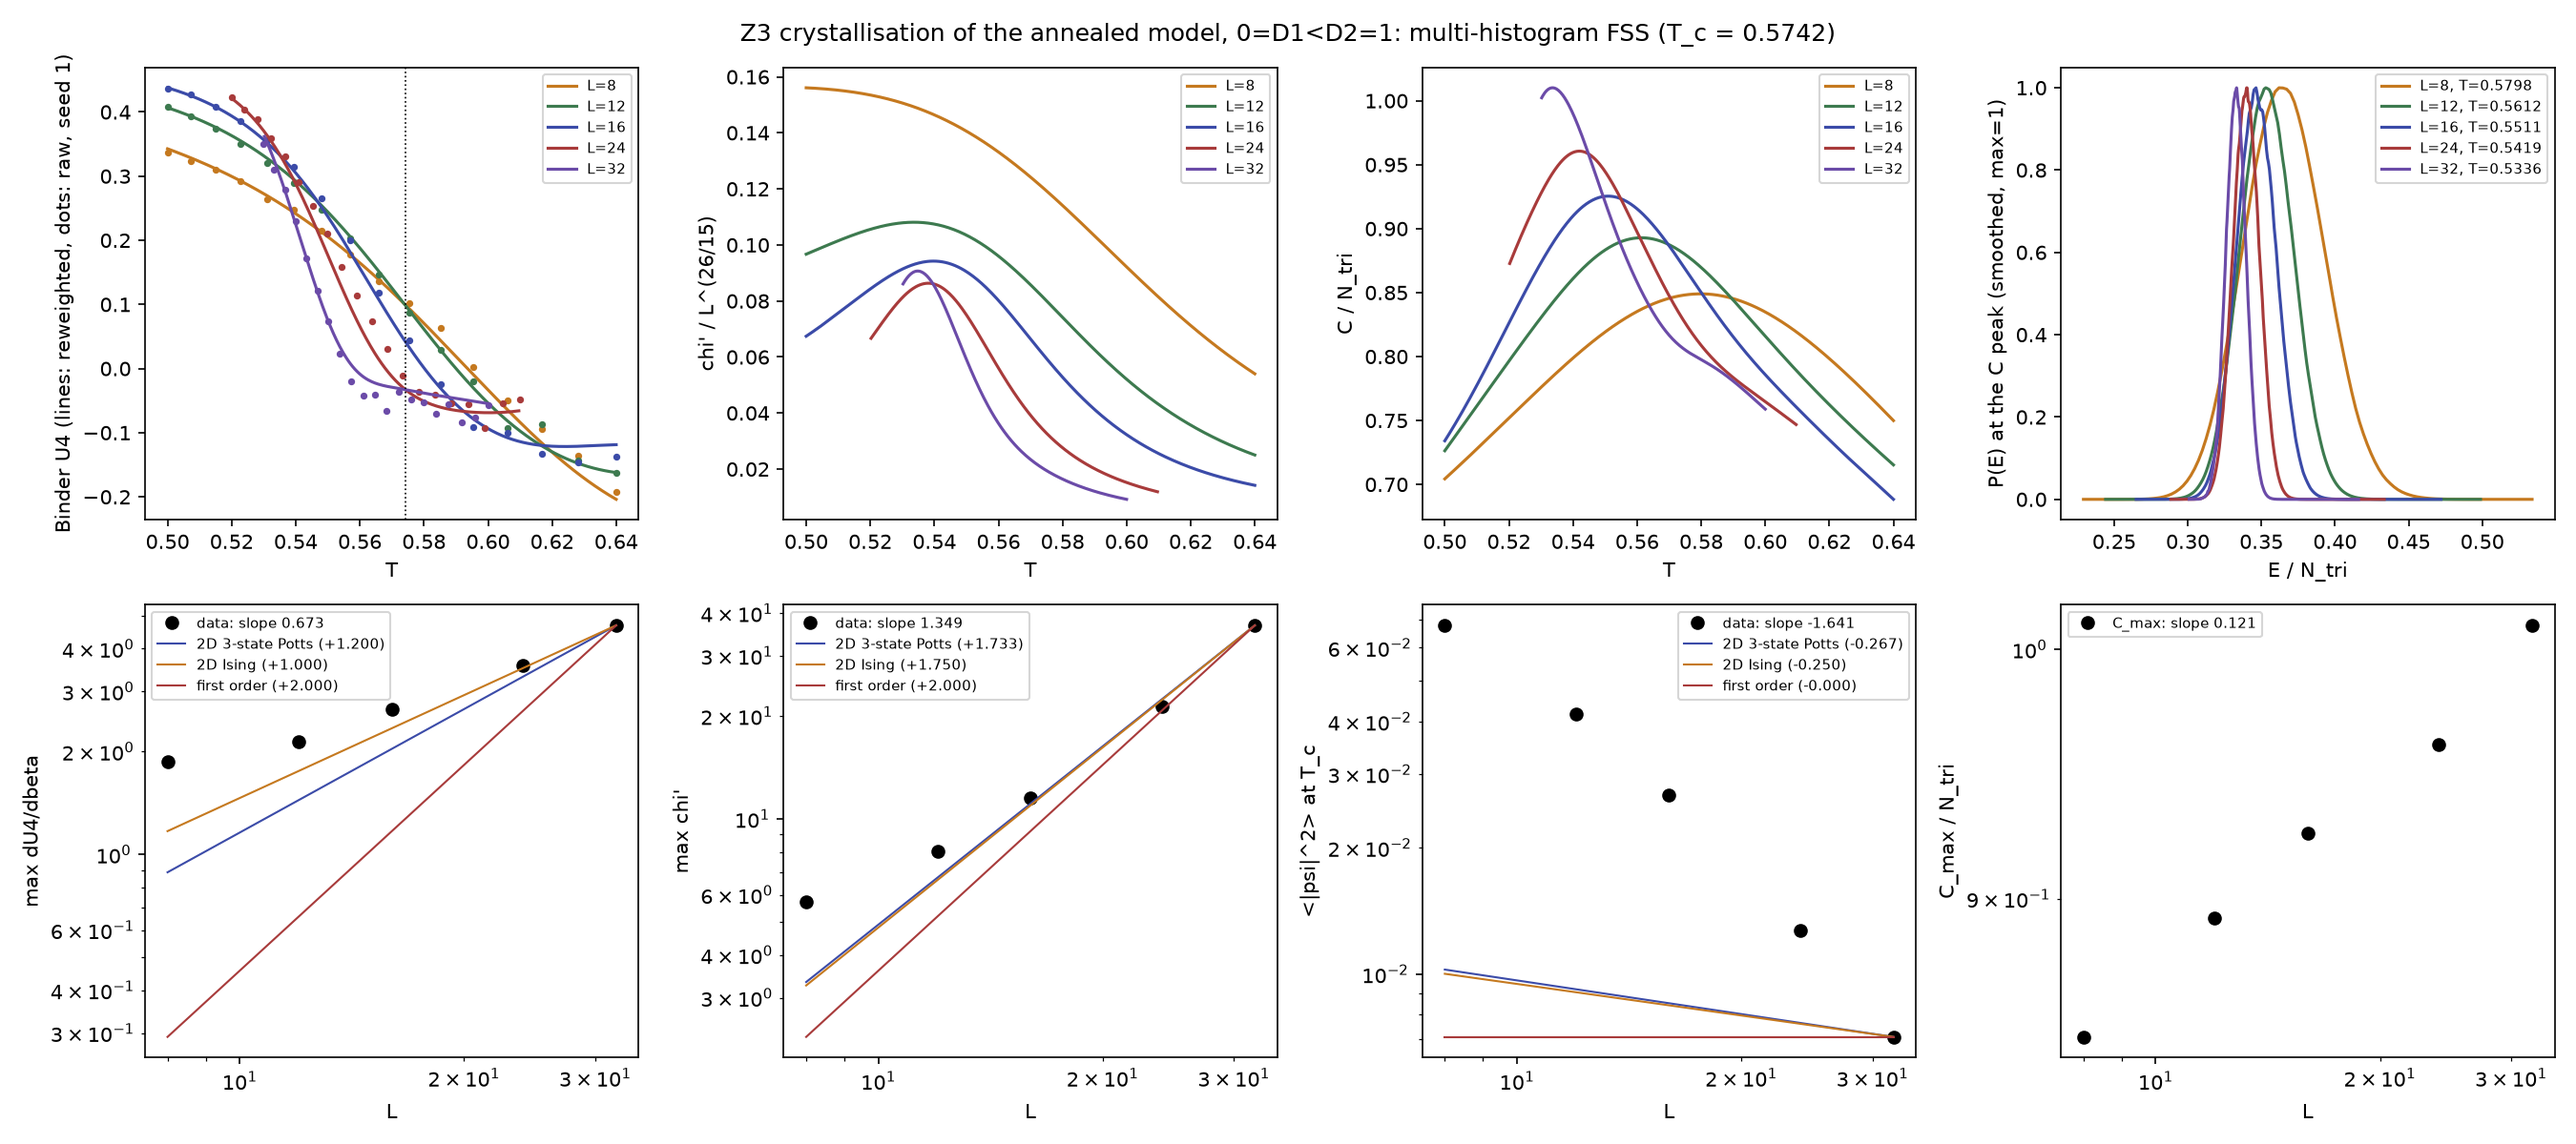
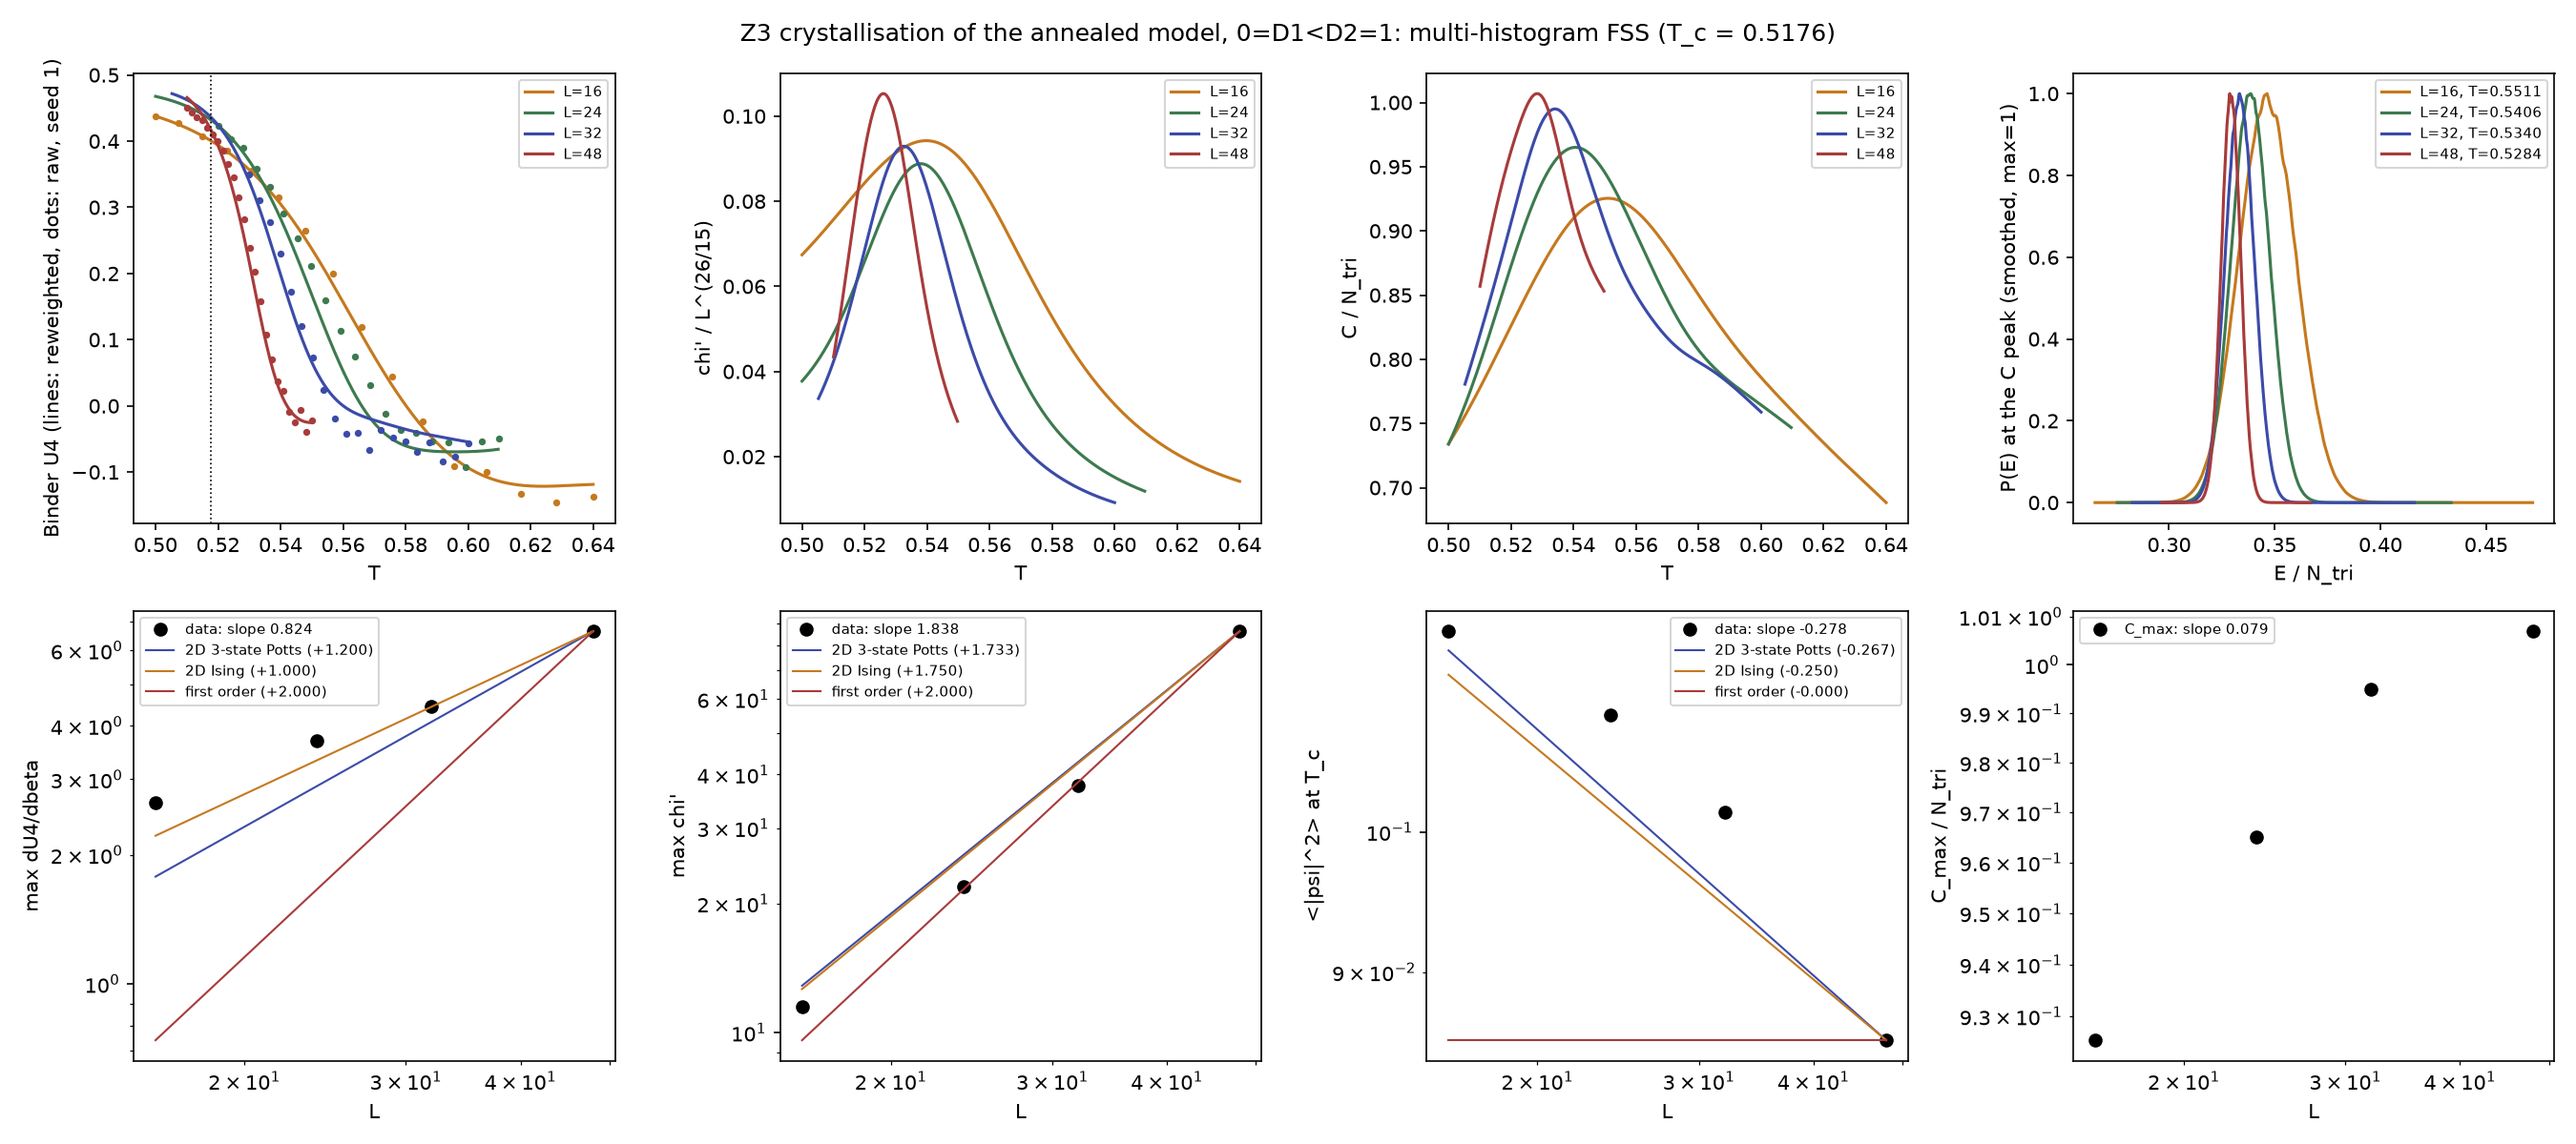
FSS D2=1 to L=48: T_c=0.518, exponents at T_c Potts-like, C_max nearly saturating; psi-histogram figure; ARTIFACT.md v7.3
Claude-Session: https://claude.ai/code/session_01RFJ2yezimFHmJH4nSdTCzd

diff --git a/annealed_fss_psi_hist.py b/annealed_fss_psi_hist.py
@@ -1,0 +1,38 @@
+"""Order-parameter distribution at the pseudo-critical temperature (C peak)
+for the largest sizes: areal density P(|psi|)/|psi| in the complex psi
+plane. A single ring = continuous-transition-like; a central (disordered)
+plateau coexisting with an ordered ring = incipient phase coexistence."""
+import glob
+
+import matplotlib
+matplotlib.use("Agg")
+import matplotlib.pyplot as plt
+import numpy as np
+
+TPK = {24: 0.5406, 32: 0.5340, 48: 0.5284}          # C-peak temperatures (annealed_fss_analysis.py)
+fig, ax = plt.subplots(1, 2, figsize=(11, 4.2))
+for (L, t), c in zip(TPK.items(), ["#a83b3b", "#6b4ba8", "#201d18"]):
+    xs, pts = [], []
+    for f in glob.glob(f"results/fss/fss_L{L}_d21_s*.npz"):
+        d = np.load(f)
+        k = np.argmin(abs(1 / d["betas"] - t))
+        if abs(1 / d["betas"][k] - t) < 0.003:
+            xs.append(np.hypot(d["re"][:, k], d["im"][:, k]))
+            pts.append((d["re"][:, k], d["im"][:, k]))
+    x = np.concatenate(xs)
+    h, e = np.histogram(x, bins=25, range=(0, 0.7), density=True)
+    r = 0.5 * (e[1:] + e[:-1])
+    ax[0].plot(r, h / r / (h / r)[:6].max(), "o-", ms=3, color=c, label=f"L={L}, T={t}")
+    if L == 48:
+        re, im = np.concatenate([p[0] for p in pts]), np.concatenate([p[1] for p in pts])
+        ax[1].hist2d(re, im, bins=60, range=[[-0.45, 0.45], [-0.45, 0.45]], cmap="Greys")
+        ax[1].set_aspect("equal")
+        ax[1].set_title(f"L=48, T={t}: psi in the complex plane", fontsize=10)
+ax[0].set_xlabel("|psi|")
+ax[0].set_ylabel("areal density P(|psi|)/|psi| (normalised)")
+ax[0].legend(fontsize=8)
+ax[1].set_xlabel("Re psi")
+ax[1].set_ylabel("Im psi")
+fig.tight_layout()
+fig.savefig("annealed_fss_psi_hist.png", dpi=150)
+print("saved annealed_fss_psi_hist.png")

diff --git a/annealed_fss_analysis.py b/annealed_fss_analysis.py
@@ -11,7 +11,8 @@ Fits (log-log in L): max dU/dbeta ~ L^(1/nu), max chi' ~ L^(gamma/nu),
 <|psi|^2>(T_c) ~ L^(-2 beta/nu), C_max ~ L^(alpha/nu); T_c from Binder
 crossings of successive sizes. Errors: leave-one-seed-out jackknife.
 
-Usage: python3 annealed_fss_analysis.py <D2> L1 L2 ...
+Usage: [TC=<T_c>] python3 annealed_fss_analysis.py <D2> L1 L2 ...
+(TC fixes T_c, e.g. from pseudo_critical(); default: largest-pair Binder crossing)
 """
 import glob
 import sys
@@ -145,7 +146,13 @@ def fit_exponents(res, Ls, Tc):
                 Cmax=Cmax, dUmax=dUmax, chimax=chimax, m2c=m2c)
 
 
+TC_FIXED = None
+
+
 def main():
+    global TC_FIXED
+    import os
+    TC_FIXED = float(os.environ["TC"]) if os.environ.get("TC") else None
     D2 = float(sys.argv[1])
     Ls = [int(x) for x in sys.argv[2:]]
     groups = sorted(set.intersection(*[{r["group"] for r in load_L(D2, L)} for L in Ls]))
@@ -157,7 +164,7 @@ def main():
         res = observables(D2, Ls, bgrid, drop)
         tcs = [crossing(res[a][0], res[a][1]["U"], res[b][0], res[b][1]["U"])
                for a, b in zip(Ls[:-1], Ls[1:])]
-        Tc = tcs[-1] if np.isfinite(tcs[-1]) else np.nanmean(tcs)
+        Tc = TC_FIXED if TC_FIXED else (tcs[-1] if np.isfinite(tcs[-1]) else np.nanmean(tcs))
         return res, tcs, Tc, fit_exponents(res, Ls, Tc)
 
     res, tcs, Tc, ex = estimate()

diff --git a/ARTIFACT.md b/ARTIFACT.md
@@ -7,7 +7,7 @@ progresses:
 https://claude.ai/artifact/9jxHSSeFMssZzDUT7Ph4eS
 
 As of this commit it is titled **"Confinement, Matching & Symmetry
-Breaking on a Tunable Potts–Ising Lattice"** (v7.2; artifact version 22) and is
+Breaking on a Tunable Potts–Ising Lattice"** (v7.3; artifact version 23) and is
 organized thematically rather than chronologically:
 
 1. Why this is worth doing (novelty/significance framing)
@@ -116,7 +116,12 @@ organized thematically rather than chronologically:
     (which sublattice hosts the hubs): <|psi|^2>N collapses above and
     scales with N below T_c, Binder 0 -> 1/2 — a genuine crystallisation
     transition at T_c≈0.56 (D2=1) and ≈0.45-0.5 (D2=0.5), with only a
-    weak, non-growing C peak (0.90-0.95, L=8-24) at T_c.
+    weak, non-growing C peak (0.90-0.95, L=8-24) at T_c. FSS at D2=1 (parallel tempering,
+    multi-histogram, L=8-48, 4 seeds): T_c=0.518±0.005; not first order
+    (unimodal P(E), vanishing Binder dip); at T_c gamma/nu=1.72,
+    2beta/nu=0.28 match 3-state Potts, but C_max nearly saturates
+    (alpha/nu≈0.08 vs 0.4) and max chi' grows faster than L^1.733 —
+    not settled; Fisher-renormalised Potts is one hypothesis fitting all.
 12. Experimental and real-material connections (artificial spin ice
     dislocations, NiO domain-wall pinning, delafossite/kagome endpoint
     realizations — with an explicit caveat on what's analogy vs. what's
